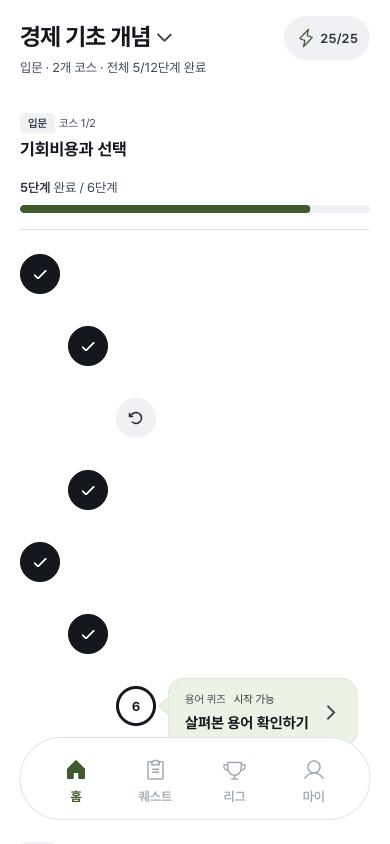
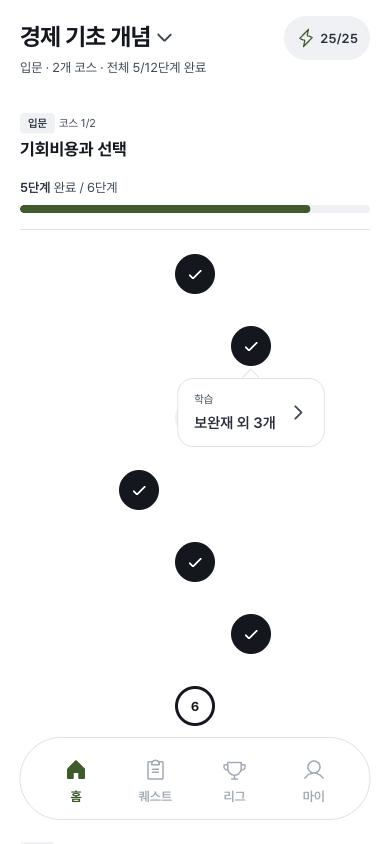
주제 화면 징검다리를 화면 가운데 기준으로 좌우 지그재그(±56px), 말풍선은 돌 아래 가운데에 꼬리를 위로

diff --git a/src/index.css b/src/index.css
@@ -1130,11 +1130,12 @@ button.course-home-rail-card:active { background: var(--color-surface); }
 .course-topic-summary { padding-inline: var(--space-5) !important; border-radius: var(--shape-card); background: var(--color-card) !important; }
 .course-step { grid-template-columns: 40px minmax(0, 1fr); }
 .course-step:not(:last-child)::before { top: 46px; left: 19px; width: 3px; border-radius: 2px; }
-/* 징검다리: 단계마다 왼쪽 들여쓰기를 0 → 48 → 96 → 48px로 바꿔 지그재그로 놓는다. 엇갈린 돌은 선으로 잇지 않는다. 말풍선은 글자 길이만큼 */
+/* 징검다리: 화면 가운데 줄을 기준으로 가운데 → 오른쪽 → 가운데 → 왼쪽(±56px)으로 오가게 놓는다. 엇갈린 돌은 선으로 잇지 않는다.
+   말풍선은 돌 바로 아래, 글자 길이만큼, 꼬리가 위로 돌을 가리킨다 */
 .course-steps .course-step::before { content: none !important; }
-.course-steps .course-step { padding-left: var(--step-indent, 0px); }
-.course-steps .course-step:nth-child(4n + 2), .course-steps .course-step:nth-child(4n + 4) { --step-indent: 48px; }
-.course-steps .course-step:nth-child(4n + 3) { --step-indent: 96px; }
+.course-steps .course-step { --step-offset: 0px; padding-left: calc(50% - 20px + var(--step-offset)); }
+.course-steps .course-step:nth-child(4n + 2) { --step-offset: 56px; }
+.course-steps .course-step:nth-child(4n + 4) { --step-offset: -56px; }
 /* 돌 사이 세로 간격(말풍선 높이 64px가 다음 돌과 겹치지 않을 만큼) */
 .course-steps .course-step + .course-step { margin-top: var(--space-6); }
 .course-step[data-step-state='done']:not(:last-child)::before { background: var(--color-progress); }
@@ -1143,14 +1144,14 @@ button.course-home-rail-card:active { background: var(--color-surface); }
 .course-step[data-step-state='current'] .course-step-marker { border: 3px solid var(--color-neutral-strong); background: var(--color-card); color: var(--color-neutral-strong); font-weight: var(--font-weight-bold); }
 .course-step[data-step-state='locked'] .course-step-marker { background: var(--color-surface); color: var(--color-ink-3); }
 /* 끝낸 단계 말풍선: 체크 오른쪽에 떠서 아래 줄을 밀지 않는다. 꼬리는 체크를 가리킨다 */
-.course-step-bubble { position: absolute; top: 0; left: calc(var(--step-indent, 0px) + 52px); z-index: 5; width: max-content; max-width: calc(100% - var(--step-indent, 0px) - 52px); }
+.course-step-bubble { position: absolute; top: 60px; left: calc(50% + var(--step-offset, 0px)); z-index: 5; width: max-content; max-width: calc(100% - 8px); transform: translateX(-50%); }
 /* 말풍선 면은 카드 하나만(테두리 두 겹 방지). 지금 할 단계는 기존처럼 옅은 세이지 면 */
 .course-step-bubble > button.course-node-card { border-color: var(--color-line) !important; background: var(--color-card) !important; }
 .course-step[data-step-state='current'] .course-step-bubble > button.course-node-card { background: var(--color-accent-soft) !important; }
 .course-step[data-step-state='current'] .course-step-bubble::before { background: var(--color-accent-soft); }
 .course-step-bubble:not([data-open='true']) { display: none; }
 button.course-step-marker { cursor: pointer; }
-.course-step-bubble::before { content: ''; position: absolute; top: 22px; left: -7px; width: 12px; height: 12px; border-left: 1px solid var(--color-line); border-bottom: 1px solid var(--color-line); background: var(--color-card); transform: rotate(45deg); }
+.course-step-bubble::before { content: ''; position: absolute; top: -7px; left: calc(50% - 6px); width: 12px; height: 12px; border-left: 1px solid var(--color-line); border-top: 1px solid var(--color-line); background: var(--color-card); transform: rotate(45deg); }
 .course-step-bubble > button.course-node-card { padding-inline: var(--space-4) !important; }
 .course-node-current { border-color: var(--color-accent-line) !important; }
 
